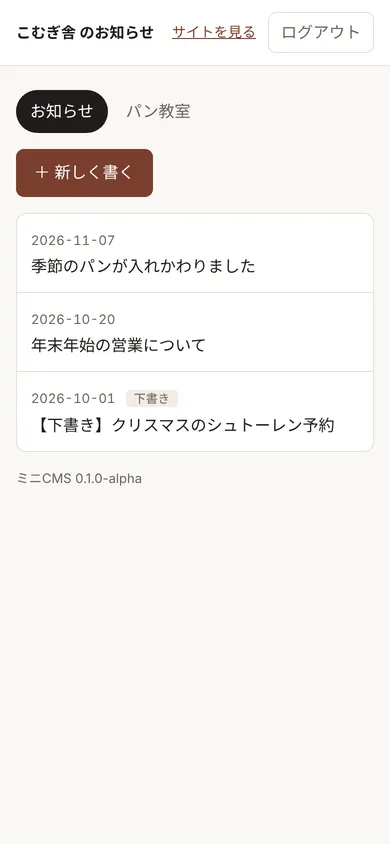
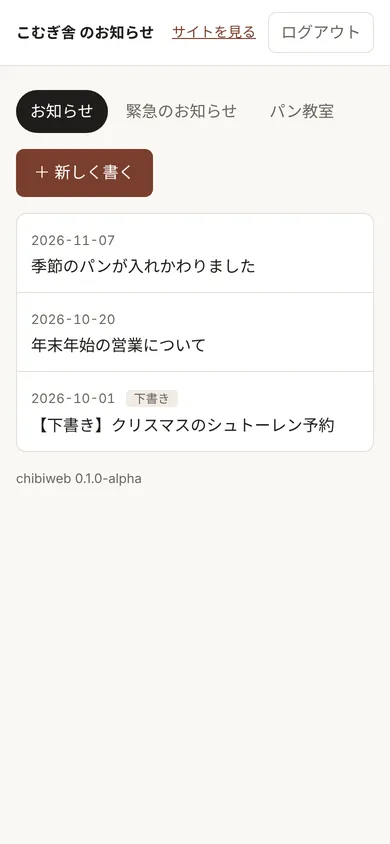
公開に向けた仕上げ：README・説明書・参加のしかた・変更の記録
- README：デモのURLと画面、参加の入口、nginx の注意、ライセンスの一言
- HOW-IT-WORKS.md：ホームの並び・緊急のお知らせ・合言葉を今の形に
- docs/img：説明用のスクリーンショットを撮り直し（はじめの画面を追加）
- CONTRIBUTING.md：コードを書かない参加を中心にした参加のしかた
- CHANGELOG.md：v0.1.0 の内容と「これから」の候補

Claude-Session: https://claude.ai/code/session_01PZHyGwsUbmG2dK5cw1oWe7

diff --git a/docs/HOW-IT-WORKS.md b/docs/HOW-IT-WORKS.md
@@ -1,23 +1,35 @@
 # しくみの解説
 
-chibiweb α版が、どう動いているかの説明です。
+chibiweb v0.1 が、どう動いているかの説明です。
 はじめて触る人と、未来の自分のために。
 
 ## 全体の考え方
 
 このサイトは、2種類のページでできています。
 
-- **ふだんは変わらないページ**：HTMLのまま置いてある（トップ、パンのご案内、お店について）
+- **ふだんは変わらないページ**：HTMLのまま置いてある（ホーム、パンのご案内、お店について）。直すときはAIと話しながら直す
 - **よく変わる部分**：お知らせだけ。管理画面から書くと、ページの決まった場所に差し込まれる
 
 WordPressは「全部のページを毎回組み立てる」しくみですが、chibiwebは「変わるところだけ動かす」しくみです。そのぶん軽く、壊れにくく、保守がほとんどいりません。
+なぜこう作ったのかは、`FOR-MAKERS.md` に書いてあります。
 
 ## 見た目の部品
 
 ![トップページ](img/home.webp)
 
-トップページは、メイン写真 → ひとこと → 営業時間 → お知らせ → パン教室 → ご案内 の順に並んでいます。
-このうち「お知らせ」と「パン教室」の中身だけが、管理画面から書いたものです。
+ホームは、SNSで写真を見てやってきた人が「お店に行く」までたどる順番に並んでいます。
+
+1. メイン写真（天地は細め）
+2. 緊急のお知らせ（臨時休業など。書いたときだけ出る）
+3. お店のひとこと
+4. 営業時間・定休日
+5. アクセス（住所と地図）
+6. お知らせ
+7. パン教室
+8. パンとお店のこと（ほかのページへの入口）
+
+このうち「緊急のお知らせ」「お知らせ」「パン教室」の中身だけが、管理画面から書いたものです。ほかは静的HTMLです。
+地図は、ホームの「アクセス」1か所だけに置いています（メニューの「アクセス」から飛べます）。
 
 ### ヘッダーとフッター
 
@@ -66,13 +78,18 @@ embed.js が、ページの <div data-news> の場所に並べる
 
 ![お知らせの一覧](img/admin-list.webp)
 
-`/news/admin/` を開くとログイン画面になります。上のタブで「お知らせ」と「パン教室」を切り替えます。
+`/news/admin/` を開くとログイン画面になります。上のタブで「お知らせ」「緊急のお知らせ」「パン教室」を切り替えます。タブ（チャンネル）は `news/config.php` で増やせます。
+
+はじめて開いたときは、`config.php` に書いた合言葉（setup_key）と、これから使うパスワードを入れる画面になります。
+
+![はじめて開いたときの画面](img/admin-setup.webp)
 
 ![お知らせを書く画面](img/admin-edit.webp)
 
 - **日付を未来にすると**：その日になるまで公開されない（予約公開）
 - **状態を「下書き」にすると**：公開側には出ない
 - **削除すると**：完全には消えず、`data/_trash/` に移る（あとで取り戻せる）
+- **緊急のお知らせは**：臨時休業の日が過ぎたら、下書きに戻すか削除する。残っているとホームの上に出続ける
 
 管理画面の背景がクリーム色なのは、公開ページと見分けるためです。
 
@@ -84,18 +101,22 @@ chibiweb/
 ├─ docs/        ← 説明のmd（サーバーには上げない）
 │   └─ img/     ← 説明用の画像
 ├─ photos/      ← 写真の元データ（サーバーには上げない）
-├─ README.md    ← 最初に読む説明
-├─ AGENTS.md    ← AIへの作業ルール
+├─ README.md          ← 最初に読む説明
+├─ AGENTS.md          ← AIへの作業ルール
+├─ CLAUDE.md          ← Claude用の入口（中身は AGENTS.md を読むだけ）
+├─ CONTRIBUTING.md    ← 参加のしかた
+├─ CODE_OF_CONDUCT.md ← 行動規範
+├─ CHANGELOG.md       ← 変更の記録
 └─ LICENSE
 ```
 
-`README.md` と `AGENTS.md` だけは一番上に置いています。GitHubは一番上の `README.md` を表紙として表示し、AIの道具の多くは一番上の `AGENTS.md` を探しに行くためです。
+`README.md` や `AGENTS.md` などは一番上に置いています。GitHubは一番上の `README.md` を表紙として表示し、AIの道具の多くは一番上の `AGENTS.md` を探しに行くためです。
 
 ## 写真
 
 - メイン写真は1枚。横幅 800・1600・2400px の3サイズを用意して、ブラウザが画面に合うものを選ぶ
 - 元の写真は `photos/` に置き、AIが3サイズに変換して `public/assets/img/` に入れる
-- 毎日変わる商品の写真はサイトでは扱わず、Instagramに任せる
+- 毎日変わる商品の写真はサイトでは扱わず、InstagramなどのSNSに任せる
 
 ## 安全のためにしていること
 
@@ -112,4 +133,4 @@ chibiweb/
 - PCで横並びのメニュー
 - お知らせのラベル（「重要」など）
 
-詳しくは `README.md` の「v0.1 でやらないこと」へ。
+詳しくは `README.md` の「v0.1 でやらないこと」へ。決めていない先のことは `CHANGELOG.md` の「これから」にまとめています。

diff --git a/README.md b/README.md
@@ -1,6 +1,10 @@
-# chibiweb v0.1.0-alpha
+# chibiweb
 
 **WordPressを入れるほどでもないサイトのために。**
+
+v0.1.0（α版）　｜　デモ：[chibiweb.piemx.net](https://chibiweb.piemx.net/)
+
+<img src="docs/img/home.webp" alt="見本のパン屋「こむぎ舎」のホーム。メイン写真の下に臨時休業のお知らせ、その下にお店のひとこと" width="320">
 
 chibiweb（ちびウェブ）は、小さなお店や団体のための、小さなウェブ一式です。お知らせだけを更新できる小さなCMSと、静的サイトのひな形、AIと一緒に直すための説明書が入っています。
 
@@ -13,7 +17,7 @@ chibiwebには、2つの約束があります。
 > - [chibiwebで、小さなお店のサイトを預かる人へ](docs/FOR-MAKERS.md)：ソフトウェアの中には書けない、使い方の考え方
 > - [chibiwebで、自分のテーマをつくる人へ](docs/FOR-DESIGNERS.md)：どのファイルのどこを直せば、オリジナルのテーマがつくれるか
 
-> これはα版です。仕様は変わります。試して、気づいたことを教えてください。
+> これはα版です。仕様は変わります。試して、気づいたことを教えてください。参加のしかたは [CONTRIBUTING.md](CONTRIBUTING.md) へ。
 
 見本の中身は、架空の町のパン屋「こむぎ舎」です。メイン写真は画像生成AIで作ったもので、実在のお店や商品ではありません。営業時間、商品と値段、臨時休業のお知らせ、教室の告知と、小さなお店のサイトに必要なものをひととおり入れています。
 
@@ -48,6 +52,10 @@ chibiweb/
 ├─ photos/              写真の元データ（サーバーには上げない）
 ├─ README.md            この説明
 ├─ AGENTS.md            AIへの作業ルール
+├─ CLAUDE.md            Claude用の入口（AGENTS.md を読むだけ）
+├─ CONTRIBUTING.md      参加のしかた
+├─ CODE_OF_CONDUCT.md   行動規範
+├─ CHANGELOG.md         変更の記録
 └─ LICENSE
 ```
 
@@ -59,6 +67,7 @@ chibiweb/
 
 - PHP 8.1 以上が動くレンタルサーバー（Xサーバー、さくら、ロリポップなど）
 - データベースは不要です
+- Apache（日本のレンタルサーバーのほとんど）を前提にしています。nginx の場合は、下の「既知の注意点」を見てください
 
 ## はじめかた
 
@@ -145,20 +154,26 @@ status: published
 ## 既知の注意点
 
 - お知らせはJavaScriptで差し込むため、検索エンジンへの反映は弱めです
-- データフォルダは `.htaccess` で保護しています。Apache以外のサーバーでは別の設定が必要です
+- データフォルダ（`news/data/`）は `.htaccess` で、外から直接読めないようにしています。`.htaccess` が効かない nginx などのサーバーでは、設定に次のような行を足してください
+
+  ```nginx
+  location ^~ /news/data/ { deny all; }
+  ```
 - 総当たり対策は簡易的です。管理画面のURLを推測されにくい名前に変えるのもおすすめです
 
 ## 参加する
 
-α版なので、どんな声でも歓迎です。
+α版なので、どんな声でも歓迎です。コードを書かない参加も、同じように大切です。
 
 - 使ってみた感想、わかりにくかったところ
-- 文章（README、手順書）の改善
-- デザインテンプレート
+- 文章（README、説明書）の改善
+- テーマ（[FOR-DESIGNERS.md](docs/FOR-DESIGNERS.md)）
 - 他のエンジン（サーバーなし版など）への移植
 
-（GitHubの置き場ができたら、ここに参加の手順を書きます）
+くわしくは [CONTRIBUTING.md](CONTRIBUTING.md) へ。参加する前に [行動規範](CODE_OF_CONDUCT.md) も読んでください。
 
 ## ライセンス
 
-MIT License
+MIT License（[LICENSE](LICENSE)）。自由に使い、直し、配ってかまいません。
+
+見本の文章とお店は架空のものです。メイン写真は画像生成AIで作ったものです。

diff --git a/CONTRIBUTING.md b/CONTRIBUTING.md
@@ -1,0 +1,62 @@
+# 参加のしかた
+
+chibiwebに興味をもってくれて、ありがとうございます。
+このプロジェクトは、コードを書く人だけのものではありません。使ってみた人、文章を直してくれる人、テーマをつくる人、みんなで育てていくものです。
+
+参加する前に、[行動規範](CODE_OF_CONDUCT.md) を読んでください。
+
+---
+
+## まず、このプロジェクトの約束を知る
+
+chibiwebには、2つの約束があります。
+
+1. **小さいままでいる**
+2. **静的HTMLをAIで更新することを基本に、ブログの構造は最小単位だけ持つ**
+
+新しい機能を提案するときは、「それは小さいままでいられるか」を一緒に考えてください。考え方のくわしいことは [FOR-MAKERS.md](docs/FOR-MAKERS.md) に書いてあります。
+
+## できること
+
+### コードを書かなくてもできること
+
+- **使ってみた感想を伝える**
+  わかりにくかったところ、つまずいたところ、うれしかったところ。どれも大事な声です
+- **まちがいを知らせる**
+  動かない、表示がくずれる、説明と違う。スマホの機種やブラウザの名前もあわせて教えてもらえると助かります
+- **文章を直す**
+  README や `docs/` の説明書の、わかりにくい言い回し、まちがい、足りないところ
+- **テーマをつくる**
+  `style.css` を1枚、自分のテーマとしてつくって持ち寄る。つくり方は [FOR-DESIGNERS.md](docs/FOR-DESIGNERS.md) へ。CSSを手で書かなくても、AIと話しながらつくれます
+- **使っている例を教える**
+  chibiwebで作ったサイトがあれば、紹介させてください
+
+### コードを書く人ができること
+
+- まちがいを直す
+- PC用の横並びメニューなど、「これから」の候補（[CHANGELOG.md](CHANGELOG.md) の終わりにあります）
+- PHP以外のエンジン（サーバーなしで動く版など）への移植
+
+大きな変更をする前は、先に Issue で相談してください。小さいままでいられるかを、一緒に考えたいからです。
+
+## 伝えかた
+
+GitHub の **Issues** に書いてください。
+
+- タイトルは、何が起きたか・何をしたいかを短く
+- 本文は、ふだんの言葉でかまいません。専門用語を使わなくても大丈夫です
+- まちがいの報告なら、「何をしたら」「どうなって」「本当はどうなってほしかったか」を書いてもらえると助かります
+
+GitHub の使い方がわからない人は、それも遠慮なく聞いてください。
+
+## 変更を送るとき（Pull Request）
+
+- 1つの Pull Request には、1つのことだけ
+- `AGENTS.md` と `docs/DESIGN.md` のルールに合わせる（AIに手伝ってもらうときも、これを読ませてください）
+- 見本の文章は、本物を想像して書く。「ここに文章が入ります」は使わない
+- スマホで表示を確かめる
+- 何を、なぜ変えたのかを、ふだんの言葉で書く
+
+## 返事について
+
+ここにいる人は、みんなそれぞれの暮らしの合間に参加しています。返事に時間がかかることがあります。気長に待ってもらえるとうれしいです。

diff --git a/CHANGELOG.md b/CHANGELOG.md
@@ -1,0 +1,62 @@
+# 変更の記録
+
+## v0.1.0（α版）
+
+はじめての公開です。
+
+### できること
+
+**お知らせ（core）**
+- スマホから使える管理画面で、お知らせを書く・直す・消す
+- 1件のお知らせは、1つのテキストファイル（Markdown）。管理画面を使わず、AIやエディタで直接書いてもよい
+- 下書きと、日付を指定した予約公開
+- 消したお知らせは、ごみ箱フォルダに移る（あとで取り戻せる）
+- お知らせの種類（チャンネル）を分けられる。見本では「お知らせ」「緊急のお知らせ」「パン教室」
+- 緊急のお知らせ（臨時休業など）は、書いたときだけ、ホームのいちばん上に目立つ箱で出る
+- ページに1行貼るだけで、どの静的HTMLにもお知らせを埋め込める。別のドメインのサイトにも貼れる
+- データベース不要。PHP 8.1 以上が動くレンタルサーバーに置くだけで動く
+- 最初のパスワードは、設定ファイルに書いた合言葉（setup_key）を知っている人しか決められない
+
+**静的サイトのひな形（kit）**
+- 見本：架空の町のパン屋「こむぎ舎」（ホーム、パンのご案内、お店について、お知らせ一覧）
+- ホームは、SNSから来た人が「お店に行く」までたどる順番に並べた型
+- ヘッダーとフッターは部品化。メニューは `site.json` 1か所で全ページに反映
+- スマホファーストの1段組み、ハンバーガーメニュー
+- メイン写真は3サイズを用意し、画面に合うものをブラウザが選ぶ
+- 地図（Googleマップの埋め込み）はカラム幅で
+- 見た目は `style.css` 先頭の変数で一括して変えられる
+
+**説明書（docs）**
+- `FOR-MAKERS.md`：小さなお店のサイトを預かる人へ（このプロジェクトの考え方）
+- `FOR-DESIGNERS.md`：自分のテーマをつくる人へ
+- `HOW-IT-WORKS.md`：しくみの解説
+- `DESIGN.md`・`CONTENT.md`：デザインと文章のルール
+- `AGENTS.md`：AIへの作業ルール
+
+### v0.1 でやらないこと
+
+- 画像のアップロード
+- 複数の人での管理、権限
+- カテゴリ・タグ（チャンネルで代用）
+- 商品の写真や一覧の更新（SNSに任せる）
+- 通販・予約・会員機能
+- お知らせのラベル（「重要」などの色つきの札）
+
+### 既知の注意点
+
+- お知らせはJavaScriptで差し込むため、検索エンジンへの反映は弱め
+- データフォルダの保護は `.htaccess`（Apache）が前提。nginx では設定の追加が必要
+- 管理画面の総当たり対策は簡易的
+
+---
+
+## これから（決まっていないこと）
+
+いまの候補です。どれも「小さいままでいられるか」を考えてから決めます。
+
+- PC用の横並びメニュー
+- お知らせにPDFを添える（公共・団体のサイトでよくある使い方）
+- 印刷に対応した会社概要・団体概要ページのひな形
+- テーマの切り替え（`site.json` に1行書くと替わる）
+- GitHub に入れたら、サーバーに自動で反映するしくみ
+- 緊急のお知らせに「この日まで表示」を設定する
